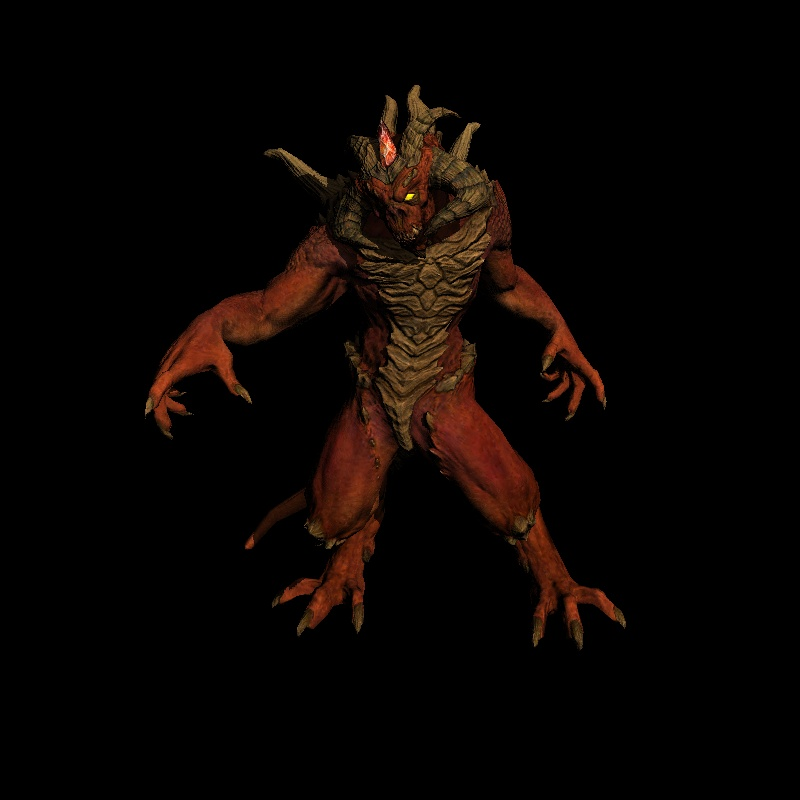
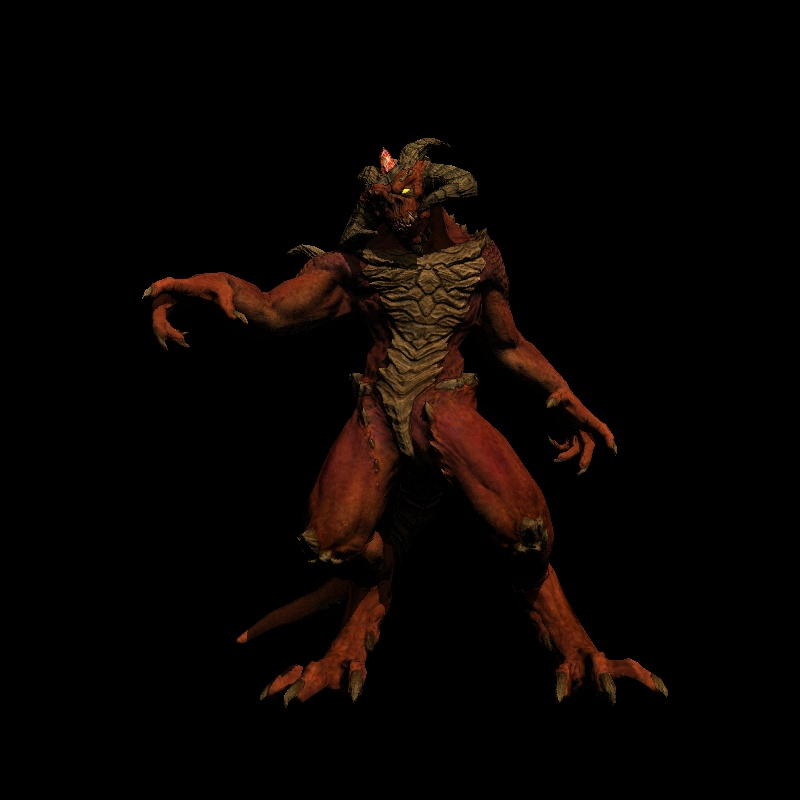
different view angle

diff --git a/OpenCVRenderer/main.cpp b/OpenCVRenderer/main.cpp
@@ -16,7 +16,7 @@ cvglShader  *shader = nullptr;
 Mat           shadowbuffer;
 
 Vec3f   light_dir(1, 1, 1);
-Vec3f         eye(1, 1, 3);
+Vec3f         eye(1.2, -.8, 3);
 Vec3f      center(0, 0, 0);
 Vec3f          up(0, 1, 0);
 
@@ -150,7 +150,6 @@ int main()
 	Mat zbuffer = Mat::zeros(height, width, CV_8UC1);
 	model = new Model("./obj/diablo3_pose/diablo3_pose.obj");
 	
-
 	clock_t start = clock();
 
 	{//depth
